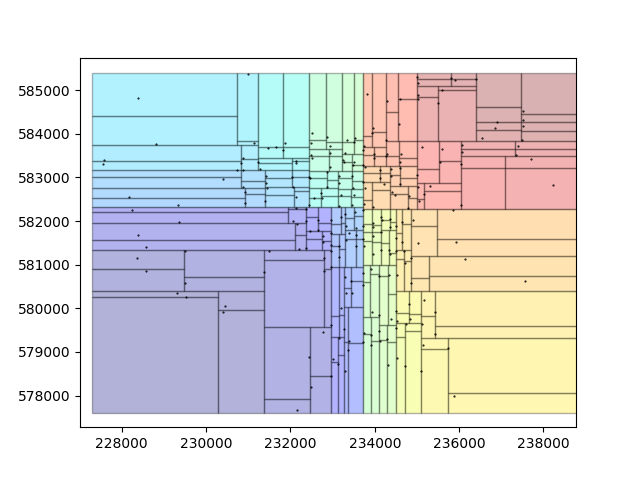
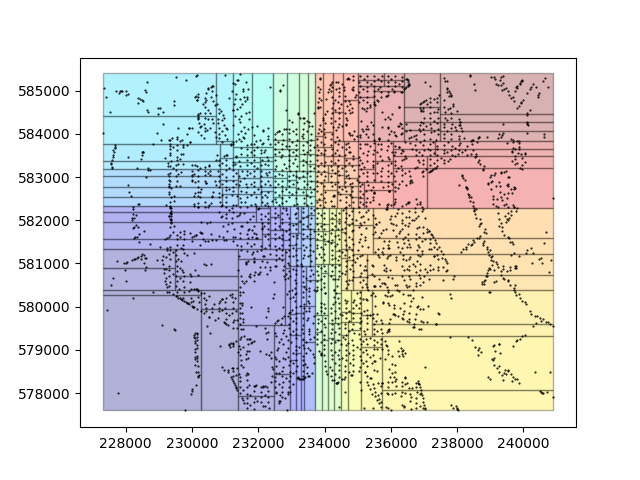
Final version and result.

Changed region(s): [[0.0312, 0.125, 0.9062, 0.875], [0.1562, 0.9062, 0.9062, 0.9375]]

diff --git a/IS-GIS-Lab/code/plot_kdtree.py b/IS-GIS-Lab/code/plot_kdtree.py
@@ -79,26 +79,29 @@ if __name__ == '__main__':
 	# Using the QuadTree depth to subsample the KDTree		
 	if args.quadtree:
 		quadtree = qt.QuadTree(tree.bounding_box(), args.quadtree)
-		# initially set the quad field for all records to the max quad-level
+		# step 1: initially set the quad field for all records to the max quad-level
 		for key in dtb.keys():
 			dtb.update_field(key, 'quad', args.quadtree)
-		# iterate through all levels of the quadtree in reverse order
+		# step 2: iterate through all levels of the quadtree in reverse order
 		quads = quadtree.quadrants()
 		for qt_key in reversed(range(len(quads))):
 			for bbox in reversed(quads[qt_key]):
-				# for every box inside that level obtain its centroid
+				# step 3: for every box inside that level obtain its centroid
 				centroid = bbox.centroid()
-				# use the centroid to obtain the list of the closest points inside the KDTree
-				# distance = 9999999999
-				# closest_point_key = 0
+				# step 4: use the centroid to obtain the list of the closest points inside the KDTree
+				distance = 9999999999
+				closest_point_key = 0
 				for point_key in tree.closest(centroid):
-					# find the closest point inside that list
-				# 	point = dtb.query(int(point_key))
-				# 	if np.linalg.norm([centroid, [point[0], point[1]]]) < distance:
-				# 		distance = np.linalg.norm([centroid, [point[0], point[1]]])
-				# 		closest_point_key = point_key
-				# # update the 'quad' field value
-					dtb.update_field(point_key, 'quad', qt_key)
+					# step 5: find the closest point inside that list
+					point = dtb.query(int(point_key))
+					# step 5.1: calculate the euclidean metric between centroid and points
+					new_distance = (abs(centroid[0] - point[1])**2 + abs(centroid[1] - point[2])**2)**0.5
+					# step 5.2: compare and update the closest key
+					if new_distance < distance:
+						distance = new_distance
+						closest_point_key = point_key
+				# step 6: update the 'quad' field value of the closest point
+				dtb.update_field(closest_point_key, 'quad', qt_key)
 				# print("Success update quad value as " + str(qt_key) + " for data" + str(closest_point_key))
 
 

diff --git a/IS-GIS-Lab/code/quadtree.py b/IS-GIS-Lab/code/quadtree.py
@@ -51,18 +51,24 @@ class QuadTree:
 
 		:To be implemented by the student:		
 		"""
+		# !!! function '__init__' also changed !!!
+		# make sure the recursive depth larger than 0
 		if depth > 0:
+			# To obtain the coordinate of X&Y and calculate the midpoint
 			minX = bbox.data[0,0]
 			maxX = bbox.data[0,1]
 			midX = (minX + maxX) / 2.0
 			minY = bbox.data[1,0]
 			maxY = bbox.data[1,1]
 			midY = (minY + maxY) / 2.0
+			# To create a array consist of above coordinate
 			axis_X = [minX, midX, maxX]
 			axis_Y = [minY, midY, maxY]		
 			for i in range(0,2):
 				for j in range(0,2):
+					# To generate offspring boundingboxes
 					child_bbox = bb.BoundingBox(axis_X[i], axis_X[i+1], axis_Y[j], axis_Y[j+1])
+					# Add offspring boundingbox into quadtree
 					self.quads[self.depth - depth].append(child_bbox)
 					# recurse condition
 					if depth > 1:
@@ -130,7 +136,7 @@ if __name__ == '__main__':
 	print(QuadTree.level(5))
 	print(QuadTree.level(900))
 
-	qt = QuadTree(bbox, 1)
+	qt = QuadTree(bbox, 3)
 	for k,v in qt.quads.items():
 		print (k,len(v))
 		for x in v:
